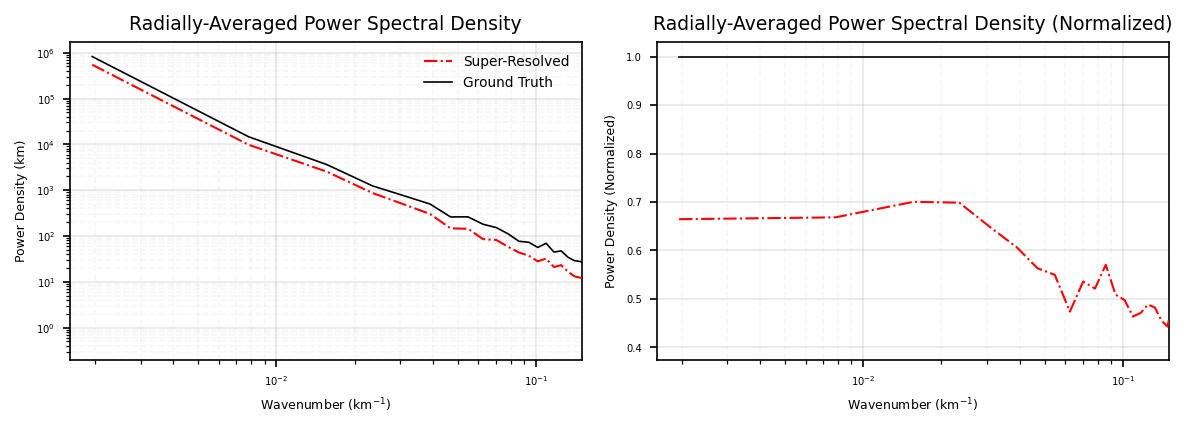
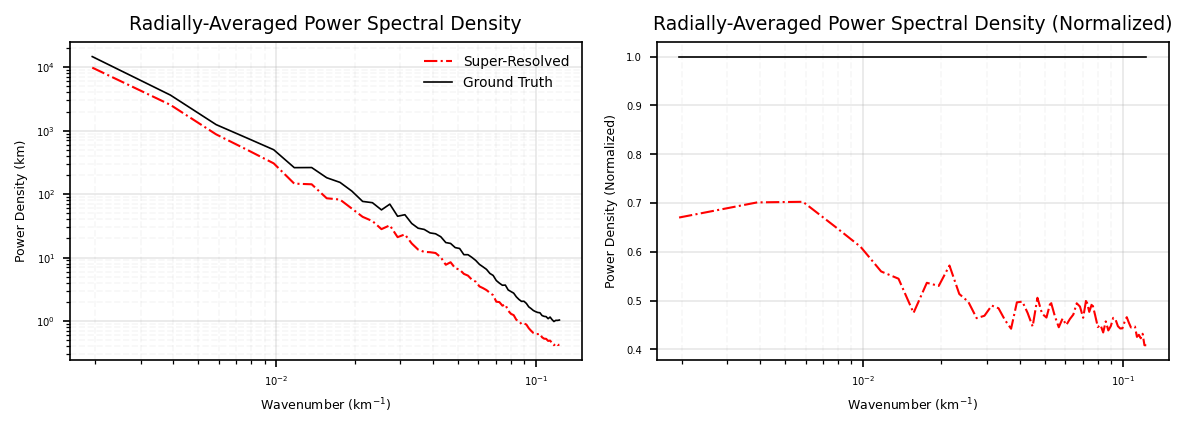
histograms of pixelwise statistics; bug fix in time avg rapsd

diff --git a/mlanalysis/figures.py b/mlanalysis/figures.py
@@ -316,6 +316,104 @@ def plot_pixelwise_statistics(experiment, var, N, daily_max=False):
             _save_figure(fig, f"{var}_pixelwise_{stat_name.lower().replace(' ', '_')}", experiment)
 
 
+def plot_pixelwise_statistics_histogram(experiment, var, N, daily_max=False):
+
+    realizations_timeseries = experiment.generate_realization_timeseries(
+        N_realizations=N,
+        unscale=True,
+        round_negatives=False,
+    )
+    groundtruth_timeseries = experiment.data_scaled['groundtruth'][var].squeeze()
+    if daily_max:
+        realizations_timeseries = compute_daily_maximum(realizations_timeseries, axis=0)
+        groundtruth_timeseries = compute_daily_maximum(groundtruth_timeseries, axis=0)
+
+    # Compute statistics
+    (mean_field_sr,
+     std_field_sr,
+     median_field_sr,
+     p1_field_sr,
+     p95_field_sr,
+     p99_field_sr) = compute_statistics(realizations_timeseries, prestacked=True, axis=0)
+
+    (mean_field_gt,
+     std_field_gt,
+     median_field_gt,
+     p1_field_gt,
+     p95_field_gt,
+     p99_field_gt) = compute_statistics(groundtruth_timeseries, prestacked=True, axis=0)
+
+    # Average over realizations and plot statistics
+    stats = {
+        'Mean': (mean_field_sr, mean_field_gt),
+        'Standard Deviation': (std_field_sr, std_field_gt),
+        'Median': (median_field_sr, median_field_gt),
+        '1 Percentile': (p1_field_sr, p1_field_gt),
+        '95 Percentile': (p95_field_sr, p95_field_gt),
+        '99 Percentile': (p99_field_sr, p99_field_gt)
+    }
+
+    fig, ax = plt.subplots(nrows=2, ncols=3, figsize=(8,4),dpi=200)
+    ts = 5
+    nbins=200
+
+    statname = 'Mean'
+    bins = np.linspace(stats[statname][1].min(), stats[statname][1].max(), nbins)
+    ax[0,0].hist(stats[statname][1].flatten(), bins=bins, alpha=0.5, label='HR Truth (WRF)', density=0)
+    ax[0,0].hist(stats[statname][0].flatten(), bins=bins, alpha=0.5, label='HR Downscaled', color='orange', density=0)
+    ax[0,0].set_title(statname, size=ts)
+
+    statname = 'Median'
+    bins = np.linspace(stats[statname][1].min(), stats[statname][1].max(), nbins)
+    ax[0,1].hist(stats[statname][1].flatten(), bins=bins, alpha=0.5, label='HR Truth (WRF)', density=0)
+    ax[0,1].hist(stats[statname][0].flatten(), bins=bins, alpha=0.5, label='HR Downscaled', color='orange', density=0)
+    ax[0,1].set_title(statname, size=ts)
+
+    statname = "Standard Deviation"
+    bins = np.linspace(stats[statname][1].min(), stats[statname][1].max(), nbins)
+    ax[0,2].hist(stats[statname][1].flatten(), bins=bins, alpha=0.5, label='HR Truth (WRF)', density=0)
+    ax[0,2].hist(stats[statname][0].flatten(), bins=bins, alpha=0.5, label='HR Downscaled', color='orange', density=0)
+    ax[0,2].set_title(statname, size=ts)
+
+    statname = "1 Percentile"
+    bins = np.linspace(stats[statname][1].min(), stats[statname][1].max(), nbins)
+    ax[1,0].hist(stats[statname][1].flatten(), bins=bins, alpha=0.5, label='HR Truth (WRF)', density=0)
+    ax[1,0].hist(stats[statname][0].flatten(), bins=bins, alpha=0.5, label='HR Downscaled', color='orange', density=0)
+    ax[1,0].set_title(statname, size=ts)
+
+    statname = "95 Percentile"
+    bins = np.linspace(stats[statname][1].min(), stats[statname][1].max(), nbins)
+    ax[1,1].hist(stats[statname][1].flatten(), bins=bins, alpha=0.5, label='HR Truth (WRF)', density=0)
+    ax[1,1].hist(stats[statname][0].flatten(), bins=bins, alpha=0.5, label='HR Downscaled', color='orange', density=0)
+    ax[1,1].set_title(statname, size=ts)
+
+    statname = "99 Percentile"
+    bins = np.linspace(stats[statname][1].min(), stats[statname][1].max(), nbins)
+    ax[1,2].hist(stats[statname][1].flatten(), bins=bins, alpha=0.5, label='HR Truth (WRF)', density=0)
+    ax[1,2].hist(stats[statname][0].flatten(), bins=bins, alpha=0.5, label='HR Downscaled', color='orange', density=0)
+    ax[1,2].set_title(statname, size=ts)
+
+    subtitle = f"Daily Maximum {var.upper()}" if daily_max else var.upper()
+    fig.suptitle(f"Spatial Distributions of Pixelwise Summary Statistics\n({subtitle})", fontsize=8, fontweight='bold', y=0.98)
+
+    for i,axes in enumerate(ax.flat):
+        if i == 0:
+            axes.legend(fontsize=5, frameon=False, loc='upper right')
+        else:
+            axes.legend(fontsize=5, frameon=False)
+        axes.tick_params(axis='both', which='major', labelsize=3.5)
+        axes.title.set_fontweight('bold')
+        if not i == 0:
+            axes.set_xlabel(var.upper(), size=.7*ts)
+
+    plt.subplots_adjust(hspace=0.34, wspace=0.14)
+
+    if daily_max:
+        _save_figure(fig, f"{var}_dailymax_pixelwise_histogram", experiment)
+    else:
+        _save_figure(fig, f"{var}_pixelwise_histogram", experiment)
+
+
 def plot_time_avg_spectrum(experiment, var, N, daily_max=False):
 
     realizations_timeseries = experiment.generate_realization_timeseries(
@@ -335,15 +433,16 @@ def plot_time_avg_spectrum(experiment, var, N, daily_max=False):
 
         # realization spectra, averaged over the N realizations
         realizations_spectra = compute_realizations_spectra(
-            realizations_timeseries[i]
+            realizations_timeseries[i],
+            d=4.0,
             )[0]
         spectra_realizations_all.append(torch.mean(torch.stack(realizations_spectra, axis=0), axis=0))
 
         # ground truth spectrum
-        groundtruth_spectrum, _, _ = get_rapsd(groundtruth_timeseries[i])
+        groundtruth_spectrum, _, _ = get_rapsd(groundtruth_timeseries[i], d=4.0)
         spectra_groundtruth_all.append(groundtruth_spectrum)
         if i == N_time - 1:
-            bin_mids = get_rapsd(groundtruth_timeseries[i])[1]
+            bin_mids = get_rapsd(groundtruth_timeseries[i], d=4.0)[1]
 
     # average over all time steps
     spectra_realizations_avg = torch.mean(torch.stack(spectra_realizations_all, axis=0), axis=0)

diff --git a/mlanalysis/__main__.py b/mlanalysis/__main__.py
@@ -9,6 +9,7 @@ from .figures import (
     plot_timeseries,
     plot_dailymax_timeseries,
     plot_pixelwise_statistics,
+    plot_pixelwise_statistics_histogram,
     plot_time_avg_spectrum,
 )
 
@@ -22,7 +23,7 @@ experiment.summary()
 # Set random seed for reproducibility
 set_seed(experiment.seed)
 
-N = 50
+N = 1
 loc = (84, 56)
 
 # plot training and validation metrics
@@ -33,6 +34,8 @@ loc = (84, 56)
 # plot_dailymax_timeseries(experiment, var='fwi', N=N, xy=loc)
 # plot_pixelwise_statistics(experiment, var='fwi', N=N, daily_max=False)
 # plot_pixelwise_statistics(experiment, var='fwi', N=N, daily_max=True)
+# plot_pixelwise_statistics_histogram(experiment, var='fwi', N=N, daily_max=False)
+# plot_pixelwise_statistics_histogram(experiment, var='fwi', N=N, daily_max=True)
 plot_time_avg_spectrum(experiment, var='fwi', N=N, daily_max=False)
 plot_time_avg_spectrum(experiment, var='fwi', N=N, daily_max=True)
 

diff --git a/mlanalysis/spectral.py b/mlanalysis/spectral.py
@@ -85,15 +85,15 @@ def get_log_spectral_bias(ps, ps_ref):
     return lsb
 
 
-def compute_realizations_spectra(realizations):
+def compute_realizations_spectra(realizations, d=1.0):
     # Compute spectra
     realizations_spectra = []
     for realization in realizations:
-        rapsd, _, _ = get_rapsd(realization)
+        rapsd, _, _ = get_rapsd(realization, d=d)
         realizations_spectra.append(rapsd)
 
     # Append spectrum of mean realization (NOT the mean of the spectra)
     realization_mean = (1/realizations.shape[0]) * torch.sum(realizations, axis=0)
-    realizations_mean_spectrum, bins_mids, bin_counts = get_rapsd(realization_mean)
+    realizations_mean_spectrum, bins_mids, bin_counts = get_rapsd(realization_mean, d=d)
 
     return (realizations_spectra, realizations_mean_spectrum, bins_mids, bin_counts)

diff --git a/mlanalysis/utils.py b/mlanalysis/utils.py
@@ -40,6 +40,7 @@ def invert_feature_scaling(tensor, data_min, data_max, is_log_transformed=False)
         return tensor * (data_max - data_min) + data_min
 
 
+@lru_cache(maxsize=None)
 def compute_statistics(data, prestacked=True, axis=0):
     """
     Compute statistics for a data tensor over the given axis.
